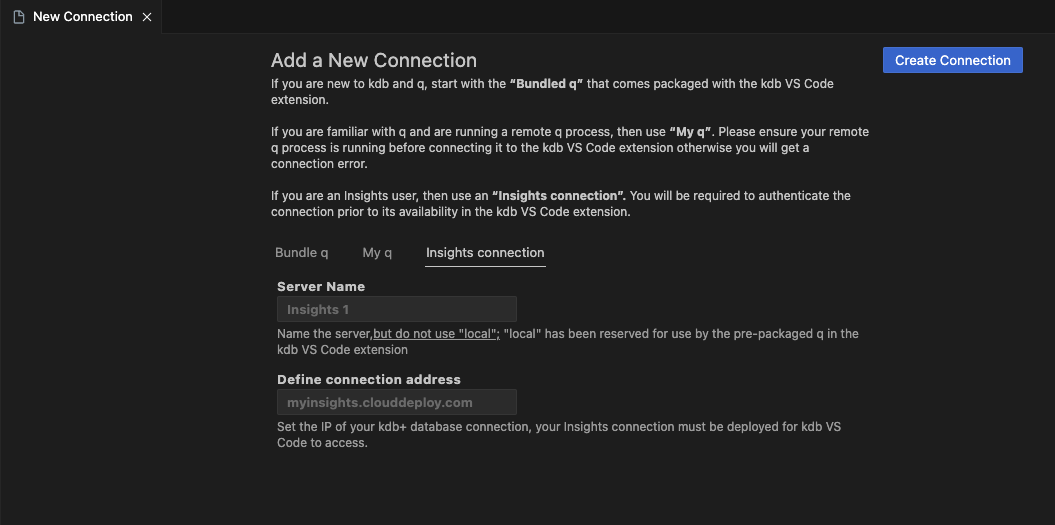
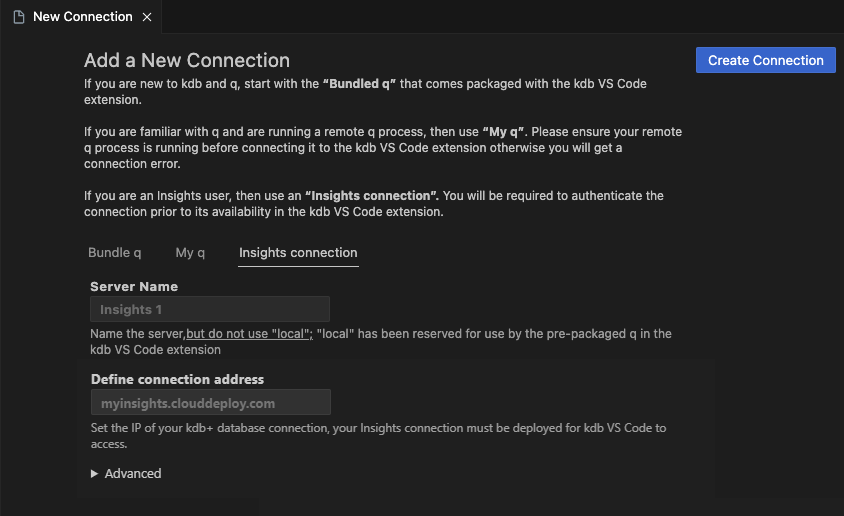
Add realm details and update the changelog

diff --git a/README.md b/README.md
@@ -188,6 +188,19 @@ Set the following properties:
 
 ![connecttoinsights](https://github.com/KxSystems/kx-vscode/blob/main/img/insightsconnection.png?raw=true)
 
+Set the following from the Advanced properties if necessary:
+
+| Property               | Description                                                                                                                |
+| ---------------------- | -------------------------------------------------------------------------------------------------------------------------- |
+| Define Realm           | Specify the Keycloak realm for authentication. Usually the realm is set to `insights`, which is the default value used by the extension. You only need to change this field if a different realm has been configured on your server.  |
+
+![connecttoinsights](https://github.com/KxSystems/kx-vscode/blob/main/img/insightsconnectionadvanced.png?raw=true)
+
+
+!!!note "For kdb Insights Enterprise free trial instances"
+   The realm is configured as `insights-{URL}` where {URL} is the 10 digit code in the trial URL. For example: if your trial url is https://fstc83yi5b.ft1.cld.kx.com/ the realm should be `insights-fstc83yi5b`.
+
+
 1. Click **Create Connection** and the **kdb Insights Enterprise** connection appears under **CONNECTIONS** in the primary sidebar.
 
 1. Right-click the connection, and click **Connect server**.

diff --git a/CHANGELOG.md b/CHANGELOG.md
@@ -7,9 +7,9 @@ All notable changes to the **kdb VS Code extension** are documented in this file
 ### Enhancements
 
 - Display meta data for Insights connections
-- Added option to click at meta data and open in json format the meta data
-- Improve the console log quality to "kdb"output pane
-- Insights free trial instances are supported
+  - Clicking in a meta data node opens a tab displaying the meta data in json format
+- Improve the console log quality to "kdb" output pane
+- Ability to change the name of the Keycloak realm, used for authentication, from the default value of `insights`. This enables the connection to a kdb Insights Enterprise Free trial instance.
 - Added execute block command for q code
 - Added hotkey to cache function parameters for q code
 
